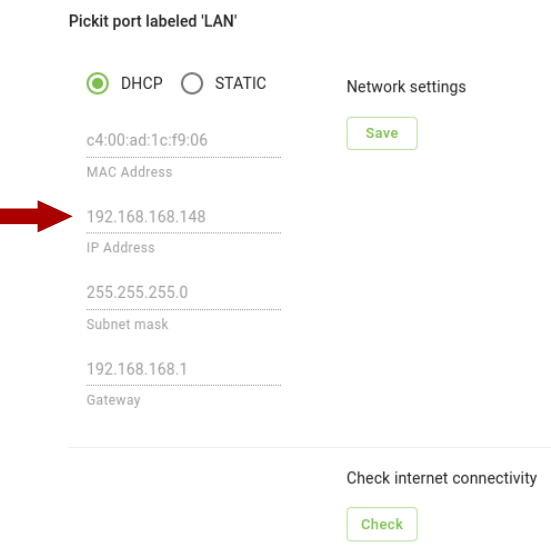
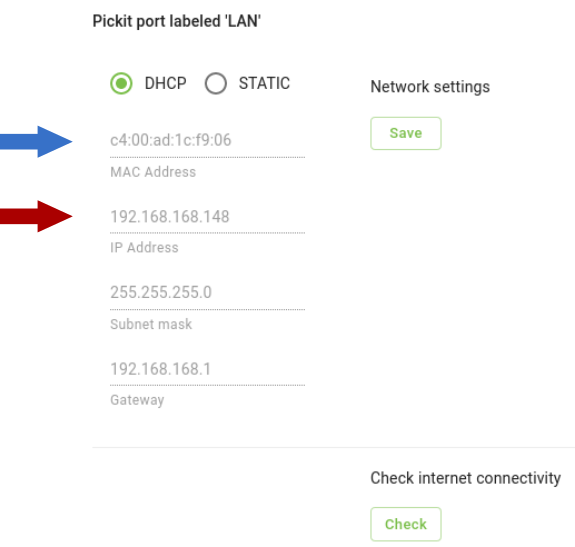
SQUASHME online

diff --git a/docs/support/connect-your-system-to-internet.rst b/docs/support/connect-your-system-to-internet.rst
@@ -74,6 +74,8 @@ When it can't be reached, contact your system administrator, as it's usually the
 - A perimeter firewall filtering incoming OpenVPN packets.
 - A firewall's web filter filtering out VPN communication on port 443, as it doesn't look like normal web traffic.
 - A NAT gateway not having a port forwarding rule for TCP 443 to the internal address of the Pickit machine.
+- Additionally, the MAC address of the Pickit ‘LAN’ port should be whitelisted.
+  The MAC address is shown in the network settings (blue arrow in image above).
 
 .. toctree::
     :hidden:
